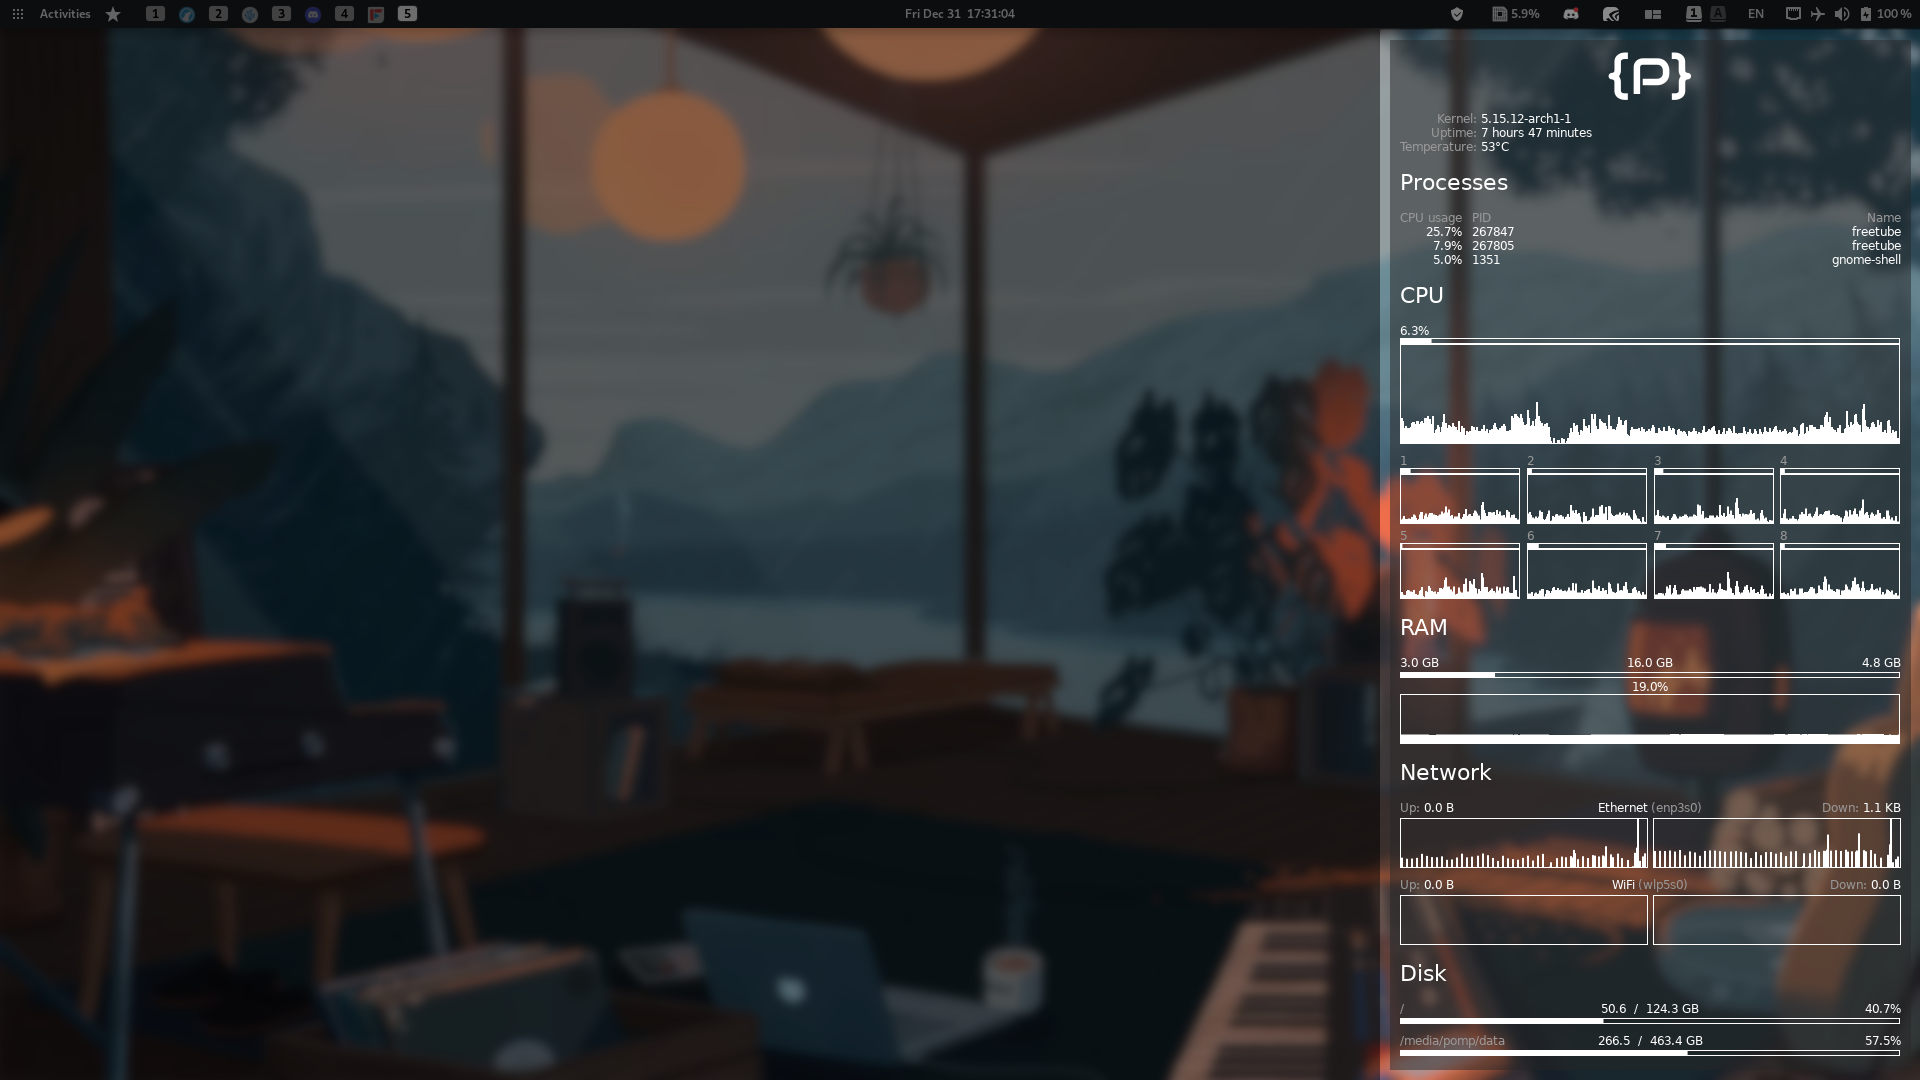
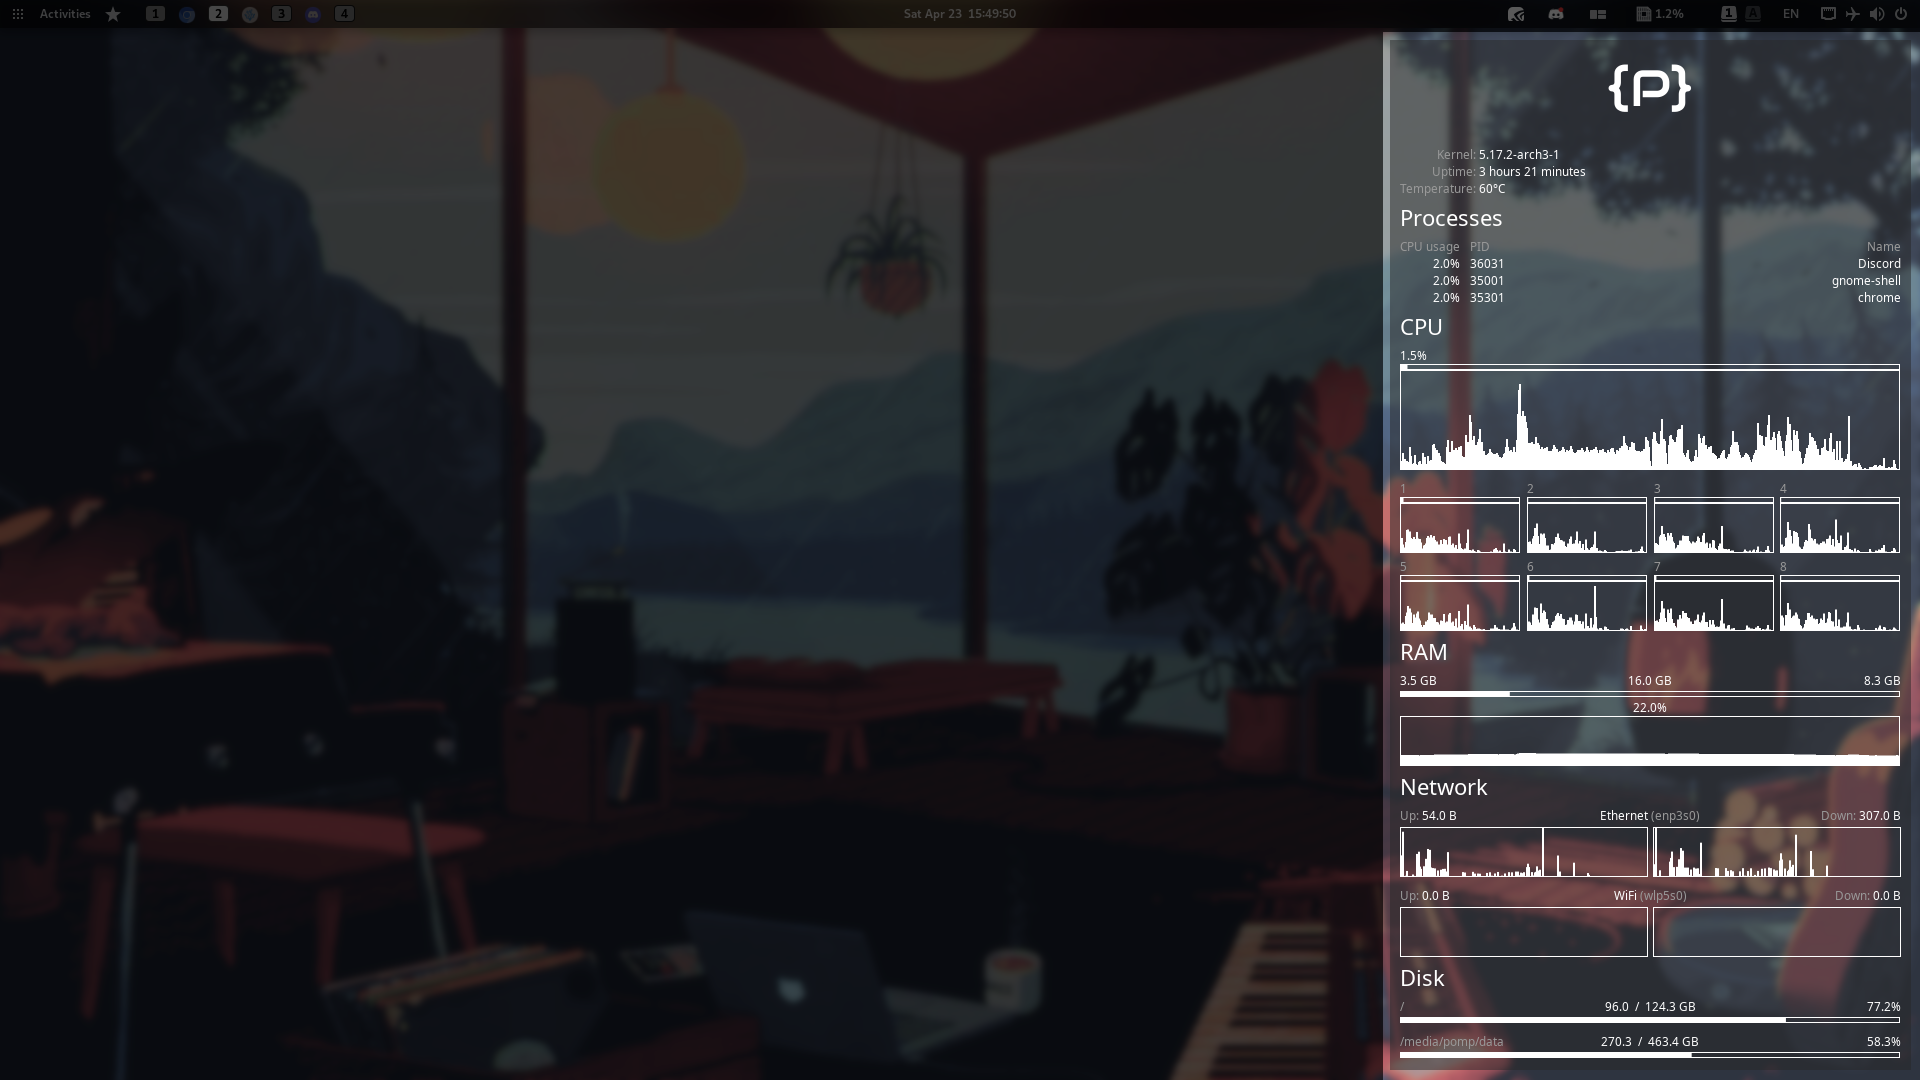
updated pomky project image and descriptions

diff --git a/markdown/portfolio/pomky.md b/markdown/portfolio/pomky.md
@@ -1,6 +1,6 @@
 ---
 name: pomky
-overview: A conky-like system monitor.
+overview: A gtk-based, [conky](https://github.com/brndnmtthws/conky)-like system monitor written in rust.
 image: /img/portfolio/pomky.png
 repo: https://github.com/developomp/pomky
 badges:
@@ -12,6 +12,13 @@ badges:
 - cairo
 -->
 
-## Intro
+## Introduction
 
-Pomky is a simple gtk-based, [conky](https://github.com/brndnmtthws/conky)-like system monitor written in rust.
+Pomky was created to solve some problems/limitations that exists in the conky project.
+Primarily the lack of a GUI editor and the primitive layout system.
+
+To fix these issues, pomky uses gtk for the GUI and windowing.
+This allows the UI to be edited using software such as [glade](https://gitlab.gnome.org/GNOME/glade)
+which is much more flexible and is better for quick UI testing.
+
+It is currently replaced by [smon](https://github.com/developomp/smon) de to [some wayland issues](https://github.com/developomp/pomky/issues/12).
